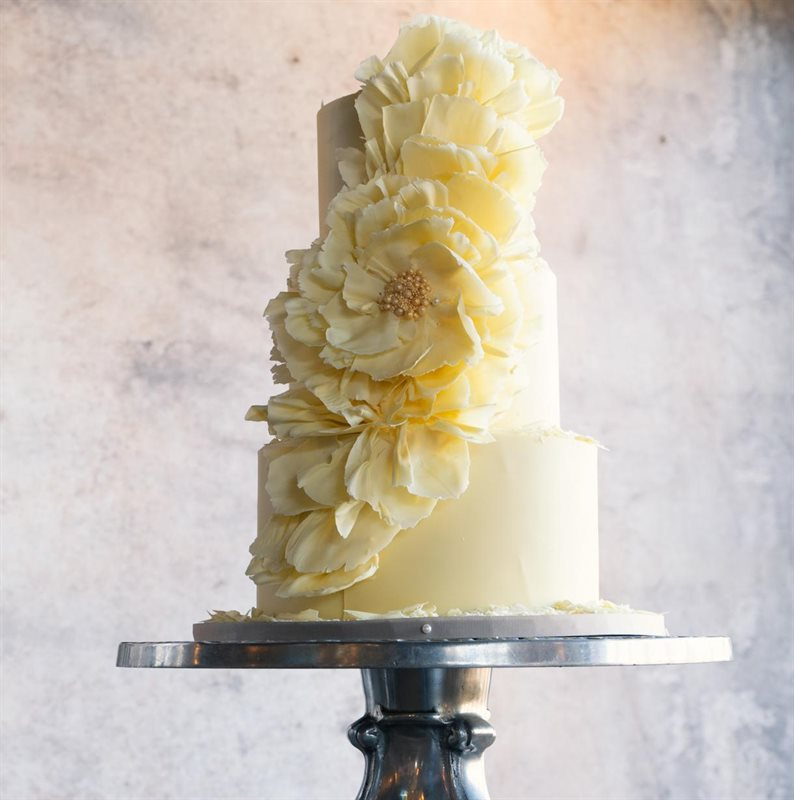
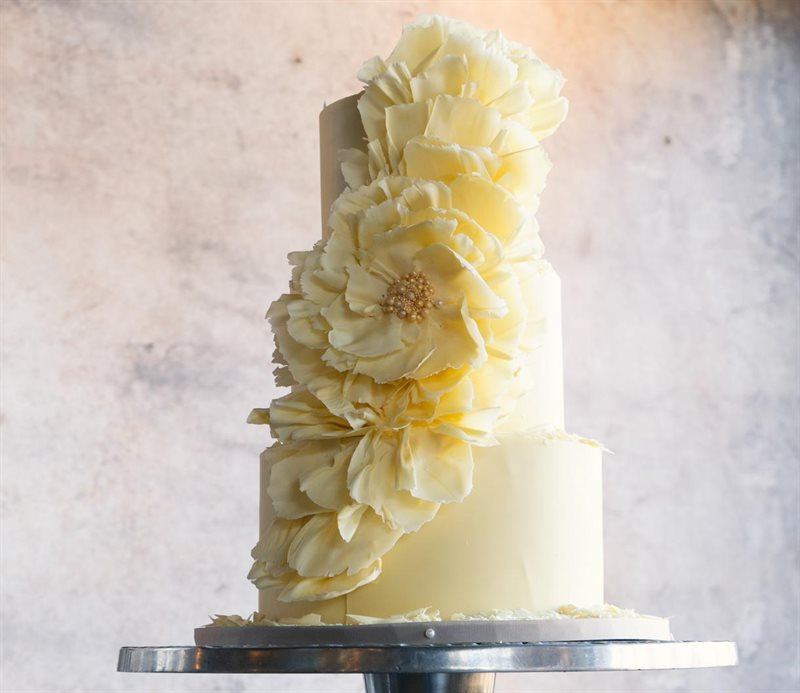
Offering cards: re-crop white couverture to remove stand leg + lift buttercream slightly to balance composition

diff --git a/index.html b/index.html
@@ -818,7 +818,7 @@
         <span class="offering-cta">View Portfolio &rarr;</span>
       </a>
       <a href="white-chocolate-weddings.html" class="offering reveal d1">
-        <div class="offering-img"><img src="images/ww-offering.jpg?v=3" alt="White couverture wedding cake — tall hand-sculpted peony cascade on a silver pedestal by Kanya Hunt" loading="lazy" style="object-position:center top"/></div>
+        <div class="offering-img"><img src="images/ww-offering.jpg?v=4" alt="White couverture wedding cake — tall hand-sculpted peony cascade on a silver pedestal by Kanya Hunt" loading="lazy"/></div>
         <h3 class="offering-title">White Couverture</h3>
         <p class="offering-body">Pearl-on-pearl finishes, blush ruffles, ivory florals — luminous white couverture work for the romantic, the modern, and the editorial wedding.</p>
         <span class="offering-cta">View Portfolio &rarr;</span>
@@ -847,7 +847,7 @@
         <span class="offering-cta">View Portfolio &rarr;</span>
       </a>
       <a href="buttercream-sugar-art.html" class="offering reveal d2">
-        <div class="offering-img"><img src="images/bs-05-sculpted-roses.jpg?v=2" alt="Buttercream and sugar art — cascading sculpted roses on a bespoke celebration cake by Kanya Hunt" loading="lazy" style="object-position:center top"/></div>
+        <div class="offering-img"><img src="images/bs-05-sculpted-roses.jpg?v=2" alt="Buttercream and sugar art — cascading sculpted roses on a bespoke celebration cake by Kanya Hunt" loading="lazy" style="object-position:center 8%"/></div>
         <h3 class="offering-title">Buttercream &amp; Sugar Art</h3>
         <p class="offering-body">For the briefs that call for buttercream or sugar work — bespoke commissions on request.</p>
         <span class="offering-cta">View Portfolio &rarr;</span>
